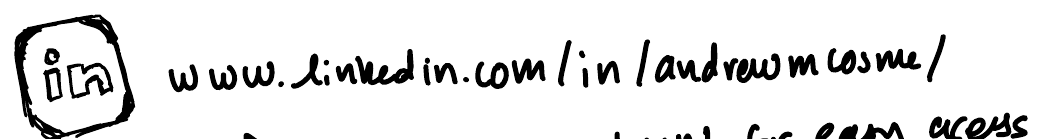
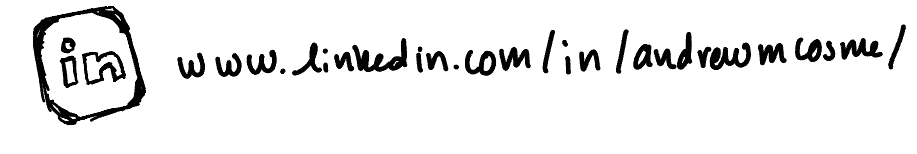
New visual layouts

Changed region(s): [[0.0, 0.0288, 1.0, 1.0], [0.5802, 0.8058, 1.0, 1.0], [0.2137, 0.9496, 0.2443, 1.0]]

diff --git a/index.html b/index.html
@@ -6,7 +6,7 @@
 <link rel="preconnect" href="https://fonts.googleapis.com"><link rel="preconnect" href="https://fonts.gstatic.com" crossorigin>
 <link href="https://fonts.googleapis.com/css2?family=DM+Sans:opsz,wght@9..40,400;9..40,500&display=swap" rel="stylesheet">
 <style>
-:root{--paper:#fbf9f5;--ink:#222;--muted:#555;--s:1}
+:root{--paper:#fbf9f5;--ink:#222;--muted:#555;--s:1;--co:.62}
 *{box-sizing:border-box} html{-webkit-text-size-adjust:100%}
 body{margin:0;background:var(--paper);color:var(--ink);font-family:"DM Sans",system-ui,-apple-system,"Segoe UI",sans-serif}
 img{display:block;max-width:100%;height:auto;mix-blend-mode:multiply} /* white drawing backgrounds blend into the paper */
@@ -14,38 +14,41 @@ img{display:block;max-width:100%;height:auto;mix-blend-mode:multiply} /* white d
 .page{padding:2.5cqw 4cqw 6cqw 4.3cqw}
 img.t,.contacts img{width:calc(var(--w)*var(--s)*100cqw/2550);max-width:100%}
 h1,h2,h3,h4,p{margin:0;font-weight:inherit}
-h1{margin-bottom:2cqw} h2{margin:4.5cqw 0 2.5cqw} h3{width:calc(var(--w)*100cqw/2550)}
+h1{margin-bottom:2cqw} h2{margin:4.5cqw 0 2.5cqw} h3{width:calc(var(--w)*var(--co)*100cqw/2550)}
 .intro{display:grid;grid-template-columns:20.9cqw 1fr;gap:5cqw;align-items:start;margin-bottom:2.5cqw}
-.photo{margin:0} /* swap the <img> below for your photo: <img src="assets/me.jpg" alt="Andrew"> */
-.contacts{display:flex;flex-wrap:wrap;gap:1.5cqw 2cqw;align-items:center;margin-bottom:1cqw}
+.photo{margin:0}
+.photo img{mix-blend-mode:normal;border-radius:8px;width:100%;height:auto} /* swap the <img> below for your photo: <img src="assets/me.jpg" alt="Andrew"> */
+.contacts{display:flex;flex-wrap:nowrap;justify-content:space-between;gap:1.5cqw;align-items:center;margin-bottom:1cqw}
 .contacts a{display:block;border-radius:6px;background:linear-gradient(transparent 72%,rgba(160,180,230,.5) 72%);transition:background-color .15s} .contacts a:focus-visible,.contacts a:hover{outline:2px solid #6f86c9;outline-offset:4px}
-.company{display:flex;justify-content:space-between;align-items:flex-end;gap:2cqw;margin:3.2cqw 0 1.2cqw}
+.company{display:flex;justify-content:space-between;align-items:center;gap:2cqw;margin:3.2cqw 0 1.2cqw}
 .role{display:grid;grid-template-columns:32cqw 26cqw 1fr;column-gap:2cqw;align-items:end;margin-top:1.2cqw}
 .loc,.when{font-size:clamp(14px,1.85cqw,24px);line-height:1.2;color:var(--ink);font-variant-numeric:tabular-nums;font-feature-settings:"tnum";letter-spacing:.01em}
-.role .loc,.role .when{padding-bottom:.55em} .when{text-align:right;white-space:nowrap} .company .when{padding-bottom:.9em}
+.role .loc,.role .when{padding-bottom:.55em} .when{text-align:right;white-space:nowrap} .company .when{padding-bottom:0}
 .blurb{font-size:clamp(14px,1.85cqw,24px);line-height:1.5;color:var(--muted);margin:1.2cqw 0 3cqw 1.2cqw;max-width:60ch}
 .about p+p{margin-top:1em}
 .about{font-size:clamp(14px,1.85cqw,24px);line-height:1.6;color:var(--muted);max-width:60ch;margin-left:1.2cqw}
 .edu-note{margin:1.2cqw 0 0 1.2cqw} .edu-note img+img{margin-top:1cqw}
 @media (max-width:640px){:root{--s:1.7}
- .intro{grid-template-columns:1fr;gap:3cqw} .photo{width:48%}
+ .intro{grid-template-columns:1fr;gap:3cqw} .photo{width:48%} .contacts{flex-wrap:wrap}
  .role{grid-template-columns:1fr auto;row-gap:.5em} .role .title{grid-column:1/3} .role .loc{padding:0} .role .when{padding:0}
  .company{flex-wrap:wrap} .loc,.when,.blurb,.about{font-size:15px}}
 </style></head>
 <body><div class="sheet"><main class="page">
 <h1><img class="" src="assets/visual-resume.png" alt="Visual Resume" style="--w:2140" width="2140" height="345"></h1>
 <section class="intro" aria-label="Welcome">
-  <figure class="photo"><img class="" src="assets/photo.png" alt="Placeholder box for a photo of Andrew" style="--w:532" width="532" height="420"></figure>
+  <figure class="photo"><img id="me" src="assets/me.jpg?v=2" alt="Photo of Andrew Cosme" width="420" height="420">
+  <!-- Tries these file names in order until one loads. Once it works, you can delete this script and hard-code the src. -->
+  <script>(function(){var i=document.getElementById("me"),n=["me.jpg","me.jpeg","me.png","photo.jpg","photo.jpeg","photo.webp","photo.png"],k=0;i.onerror=function(){k++;if(k<n.length)i.src="assets/"+n[k]+"?v=2";else i.onerror=null};})();</script></figure>
   <img class="" src="assets/welcome.png" alt="Welcome. So nice to meet you. My name is Andrew Cosme, and thank you for being here. This is my visual resume. This is my place to showcase the amazing work I&#39;ve done, build something I&#39;m proud of, display my skills and how I approach problem solving. You&#39;ll also meet the person I am, and what I stand for. If something stands out to you, if there&#39;s something we&#39;d connect on, please feel free to reach out to me at: (wanted to build something that put human creativity and centered human design at the forefront)" style="--w:1617" width="1617" height="722">
 </section>
 <nav class="contacts" aria-label="Contact">
-  <a href="tel:+16098641089" aria-label="Call (609) 864-1089"><img class="c" src="assets/contact-phone.png" alt="Phone: (609) 864-1089" style="--w:457" width="457" height="141"></a>
-  <a href="mailto:andrewmanuelcosme@gmail.com" aria-label="Email andrewmanuelcosme@gmail.com"><img class="c" src="assets/contact-email.png" alt="Email: andrewmanuelcosme@gmail.com" style="--w:747" width="747" height="173"></a>
-  <a href="https://www.linkedin.com/in/andrewmcosme/" target="_blank" rel="noopener" aria-label="LinkedIn profile"><img class="c" src="assets/contact-linkedin.png" alt="LinkedIn: www.linkedin.com/in/andrewmcosme/" style="--w:1041" width="1041" height="139"></a>
+  <a href="tel:+16098641089" aria-label="Call (609) 864-1089"><img class="c" src="assets/contact-phone.png?v=2" alt="Phone: (609) 864-1089" style="--w:457" width="430" height="154"></a>
+  <a href="mailto:andrewmanuelcosme@gmail.com" aria-label="Email andrewmanuelcosme@gmail.com"><img class="c" src="assets/contact-email.png?v=2" alt="Email: andrewmanuelcosme@gmail.com" style="--w:769" width="724" height="154"></a>
+  <a href="https://www.linkedin.com/in/andrewmcosme/" target="_blank" rel="noopener" aria-label="LinkedIn profile"><img class="c" src="assets/contact-linkedin.png?v=2" alt="LinkedIn: www.linkedin.com/in/andrewmcosme/" style="--w:974" width="917" height="154"></a>
 </nav>
 
 <section aria-labelledby="emp"><h2 id="emp"><img class="" src="assets/employment.png" alt="Employment History" style="--w:2300" width="2300" height="400"></h2>
-  <article><div class="company"><h3><img class="" src="assets/apple.png" alt="Apple Inc." style="--w:800" width="800" height="180"></h3><p class="when">2023 – Present</p></div>
+  <article><div class="company"><h3><img class="" src="assets/apple.png" alt="Apple Inc." style="--w:800" width="800" height="180"></h3><p class="when">November 2023 – Present</p></div>
     <div class="role"><h4 class="title"><img class="t" src="assets/t-qa.png" alt="QA Automation Engineer" style="--w:700" width="700" height="120"></h4><p class="loc">Cupertino, CA</p><p class="when">June 2026 – Present</p></div>
     <p class="blurb">What I did, projects worked on, skills used</p>
     <div class="role"><h4 class="title"><img class="t" src="assets/t-ops.png" alt="Operations Specialist" style="--w:650" width="650" height="140"></h4><p class="loc">Chandler, AZ</p><p class="when">May 2024 – June 2026</p></div>
@@ -55,7 +58,7 @@ h1{margin-bottom:2cqw} h2{margin:4.5cqw 0 2.5cqw} h3{width:calc(var(--w)*100cqw/
   <article><div class="company"><h3><img class="" src="assets/inventrade.png" alt="Inventrade, senior year capstone project" style="--w:1630" width="1630" height="175"></h3></div>
     <div class="role"><h4 class="title"><img class="t" src="assets/t-dev.png" alt="Project Developer" style="--w:490" width="490" height="120"></h4><p class="loc">Remote</p><p class="when">August 2025 – May 2026</p></div>
     <p class="blurb">What I did, projects worked on, skills used</p></article>
-  <article><div class="company"><h3><img class="" src="assets/foiiet.png" alt="FOIIET, higher education" style="--w:920" width="920" height="190"></h3><p class="when">August 2022 – November 2023</p></div>
+  <article><div class="company"><h3><img class="" src="assets/foiiet.png" alt="Follett Higher Education" style="--w:920" width="920" height="190"></h3><p class="when">August 2022 – November 2023</p></div>
     <div class="role"><h4 class="title"><img class="t" src="assets/t-lead.png" alt="Team Lead" style="--w:470" width="470" height="125"></h4><p class="loc">Tempe, AZ</p><p class="when">February 2023 – November 2023</p></div>
     <p class="blurb">What I did, projects worked on, skills used</p>
     <div class="role"><h4 class="title"><img class="t" src="assets/t-spec.png" alt="Specialist" style="--w:340" width="340" height="125"></h4><p class="loc">Tempe, AZ</p><p class="when">August 2022 – February 2023</p></div></article>
@@ -69,7 +72,7 @@ h1{margin-bottom:2cqw} h2{margin:4.5cqw 0 2.5cqw} h3{width:calc(var(--w)*100cqw/
     <div class="role"><h4 class="title"><img class="t" src="assets/t-diploma.png" alt="High School Diploma" style="--w:710" width="710" height="120"></h4><p class="loc">Palmdale, CA</p><p class="when">August 2018 – May 2022</p></div></article>
 </section>
 
-<section aria-labelledby="about"><h2 id="about"><img class="" src="assets/about-me.png" alt="About Me" style="--w:2236" width="2236" height="387"></h2>
+<section aria-labelledby="about"><h2 id="about"><img class="t" src="assets/about-me.png?v=2" alt="About Me" style="--w:1440" width="2092" height="231"></h2>
   <!-- ABOUT ME: replace the text inside this div with your own. Use one <p> per paragraph. -->
   <div class="about">
     <p>Write your About Me text here. This is a placeholder: swap it for a few sentences about who you are, what you care about, and what you are looking for.</p>
